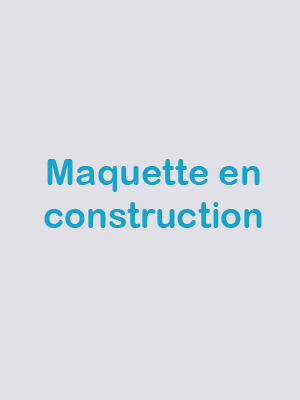
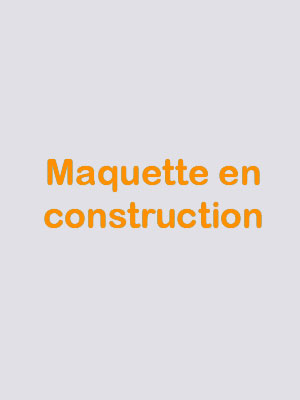
07/10/2014

Changed region(s): [[0.15, 0.39, 0.9, 0.57], [0.72, 0.39, 0.87, 0.48]]

diff --git a/styles/style.css b/styles/style.css
@@ -107,15 +107,9 @@ header>div {width:100%; background:url(header-bg-shadow.png) 0 bottom repeat-x; 
 				}
 /*---- Texte -------*/
 
-.textportfolio {
-    min-height: 320px;
-    background-color: #eeeeee;
-    border-bottom: 2px solid #2ba9d9;
-}
-
 .textcomp {
     min-height: 120px;
-	background-color: #eeeeee;
+	background-color: #f1f2f1;
     border-top: 2px solid black;
 }
 
@@ -126,7 +120,7 @@ header>div {width:100%; background:url(header-bg-shadow.png) 0 bottom repeat-x; 
 
 .texte2portfolio {
     min-height: 80px;
-	background-color: white;
+	background-color: #f1f2f1;
 }
 
 .texte3 {
@@ -136,7 +130,7 @@ header>div {width:100%; background:url(header-bg-shadow.png) 0 bottom repeat-x; 
 
 .texte3portfolio {
     min-height: 1080px;
-	background-color: white;
+	background-color: #f1f2f1;
 }
 
 .texte2 {
@@ -535,7 +529,6 @@ img.bordure {
     }
     
 .title-h3 {
-    text-align: left;
     font-size:1.2em;
 }
 
@@ -786,4 +779,45 @@ border-radius: 10px;
 .link {
     color:#FF9000;
     text-decoration:none;
+}
+
+.myButton {
+	-moz-box-shadow: 0px 1px 0px 0px #fff6af;
+	-webkit-box-shadow: 0px 1px 0px 0px #fff6af;
+	box-shadow: 0px 1px 0px 0px #fff6af;
+	background:-webkit-gradient(linear, left top, left bottom, color-stop(0.05, #ffec64), color-stop(1, #ffab23));
+	background:-moz-linear-gradient(top, #ffec64 5%, #ffab23 100%);
+	background:-webkit-linear-gradient(top, #ffec64 5%, #ffab23 100%);
+	background:-o-linear-gradient(top, #ffec64 5%, #ffab23 100%);
+	background:-ms-linear-gradient(top, #ffec64 5%, #ffab23 100%);
+	background:linear-gradient(to bottom, #ffec64 5%, #ffab23 100%);
+	filter:progid:DXImageTransform.Microsoft.gradient(startColorstr='#ffec64', endColorstr='#ffab23',GradientType=0);
+	background-color:#ffec64;
+	-moz-border-radius:6px;
+	-webkit-border-radius:6px;
+	border-radius:6px;
+	border:1px solid #ffaa22;
+	display:inline-block;
+	cursor:pointer;
+	color:#333333;
+	font-family:arial;
+	font-size:15px;
+	font-weight:bold;
+	padding:6px 24px;
+	text-decoration:none;
+	text-shadow:0px 1px 0px #ffee66;
+}
+.myButton:hover {
+	background:-webkit-gradient(linear, left top, left bottom, color-stop(0.05, #ffab23), color-stop(1, #ffec64));
+	background:-moz-linear-gradient(top, #ffab23 5%, #ffec64 100%);
+	background:-webkit-linear-gradient(top, #ffab23 5%, #ffec64 100%);
+	background:-o-linear-gradient(top, #ffab23 5%, #ffec64 100%);
+	background:-ms-linear-gradient(top, #ffab23 5%, #ffec64 100%);
+	background:linear-gradient(to bottom, #ffab23 5%, #ffec64 100%);
+	filter:progid:DXImageTransform.Microsoft.gradient(startColorstr='#ffab23', endColorstr='#ffec64',GradientType=0);
+	background-color:#ffab23;
+}
+.myButton:active {
+	position:relative;
+	top:1px;
 }

diff --git a/styles/portfolio.css b/styles/portfolio.css
@@ -22,12 +22,12 @@ a img{ border: none; }
 
 ul#portfolio-filter{ margin: -20px 0; padding: 0; height: 64px; padding-left: 0px; line-height: 64px; background: transparent url(../images/icon-tag-green.png) left no-repeat; }
 ul#portfolio-filter li{ display: inline;}
-ul#portfolio-filter a{ border:1px solid transparent; border-radius:5px; margin-right: 0.5em; padding: 0.5em 1em; background: #eeeeee; color: #AAA; font-weight: bold; text-decoration: none; }
+ul#portfolio-filter a{ border:1px solid transparent; border-radius:5px; margin-right: 0.5em; padding: 0.5em 1em; background: #ffffff; color: #AAA; font-weight: bold; text-decoration: none; }
 ul#portfolio-filter a:hover, ul#portfolio-filter a.current{ color: black; }
-ul#portfolio-filter a.current{ background-color: #2ba9d9; }
+ul#portfolio-filter a.current{ background-color: #FF9000; }
 
 ul#portfolio-list{ margin: 36px 0 0 0; padding: 0; list-style: none; }
 ul#portfolio-list li{ width: 205px; height: 205px; display: block; float: left; margin-right: 18px; overflow: hidden; }
-ul#portfolio-list li a{ display: block; width: 163px; height: 120px; overflow: hidden; border: 1px solid #CDCDCD; background: #eee; }
+ul#portfolio-list li a{ display: block; width: 163px; height: 120px; overflow: hidden; border: 1px solid #CDCDCD; background: #FFFFFF; }
 ul#portfolio-list li p{ font-size: 11px; line-height: 15px; color: #AAA; margin: 5px 0; }
 
